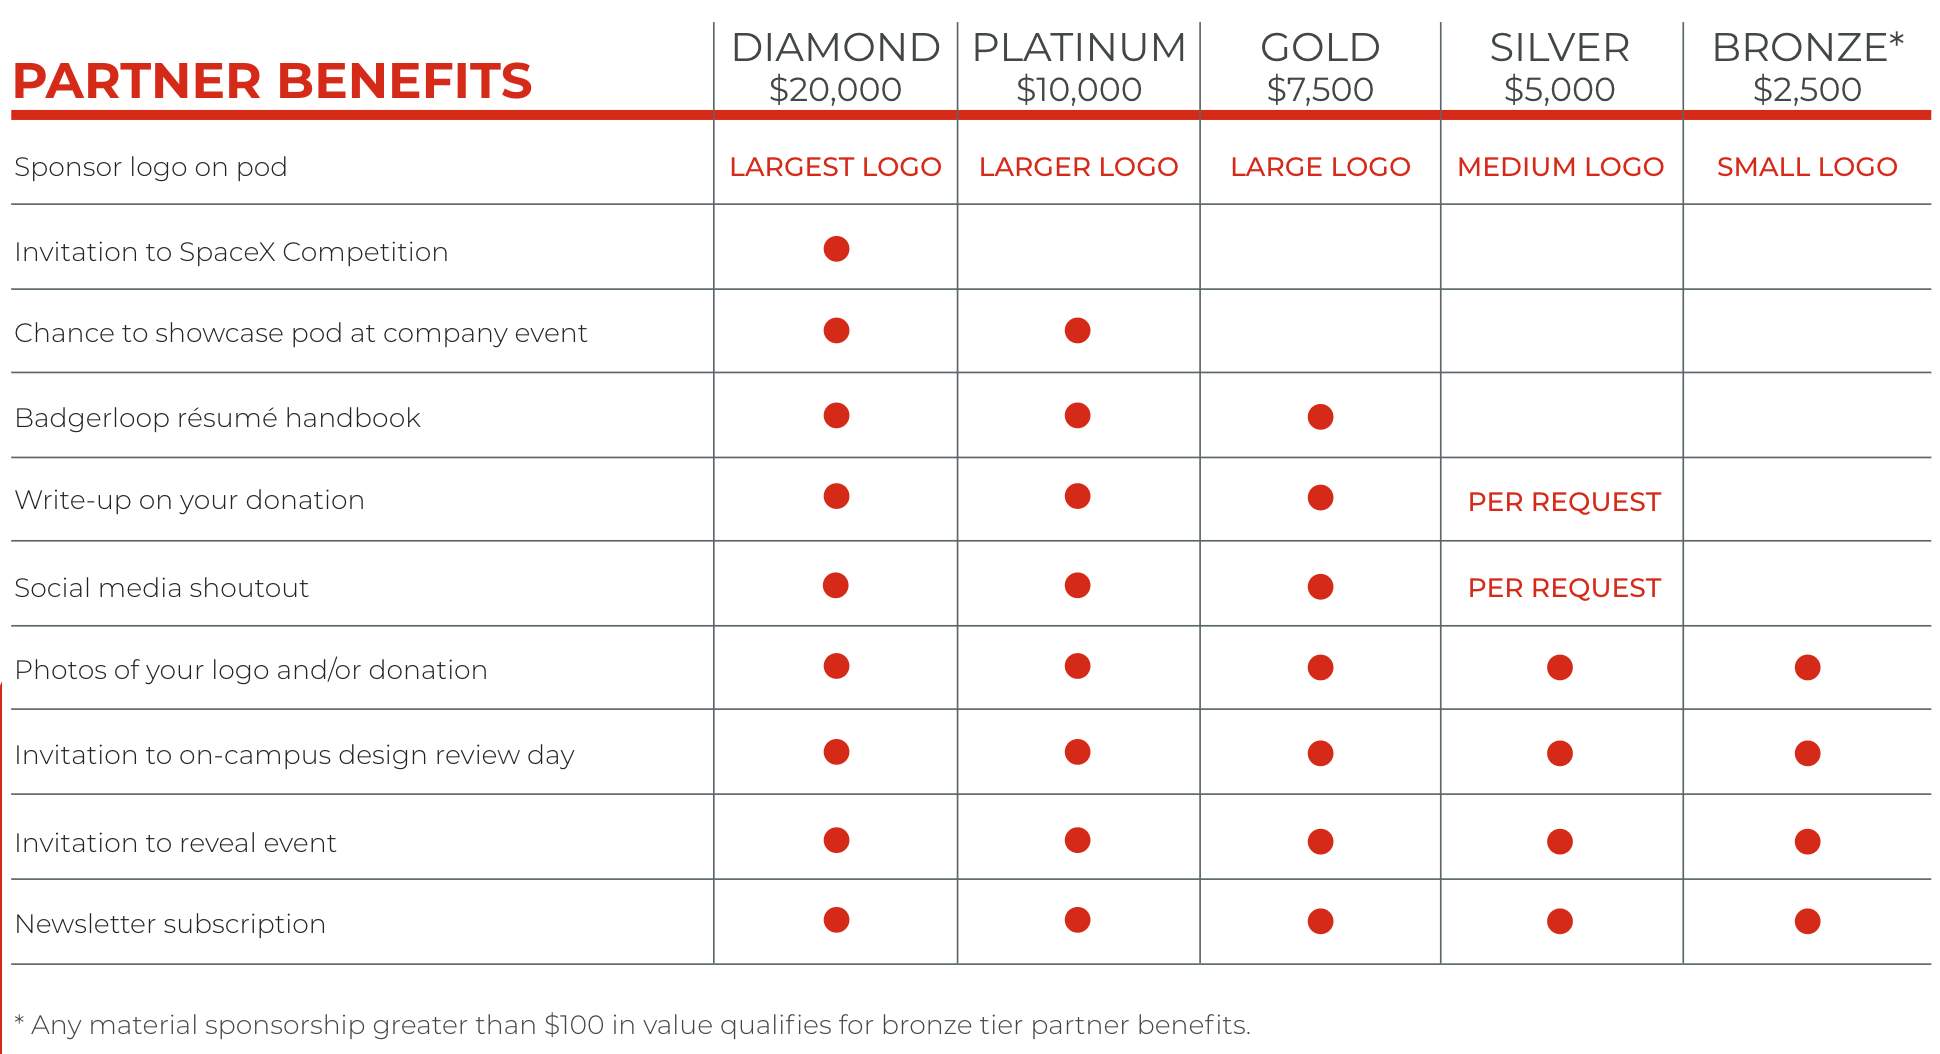
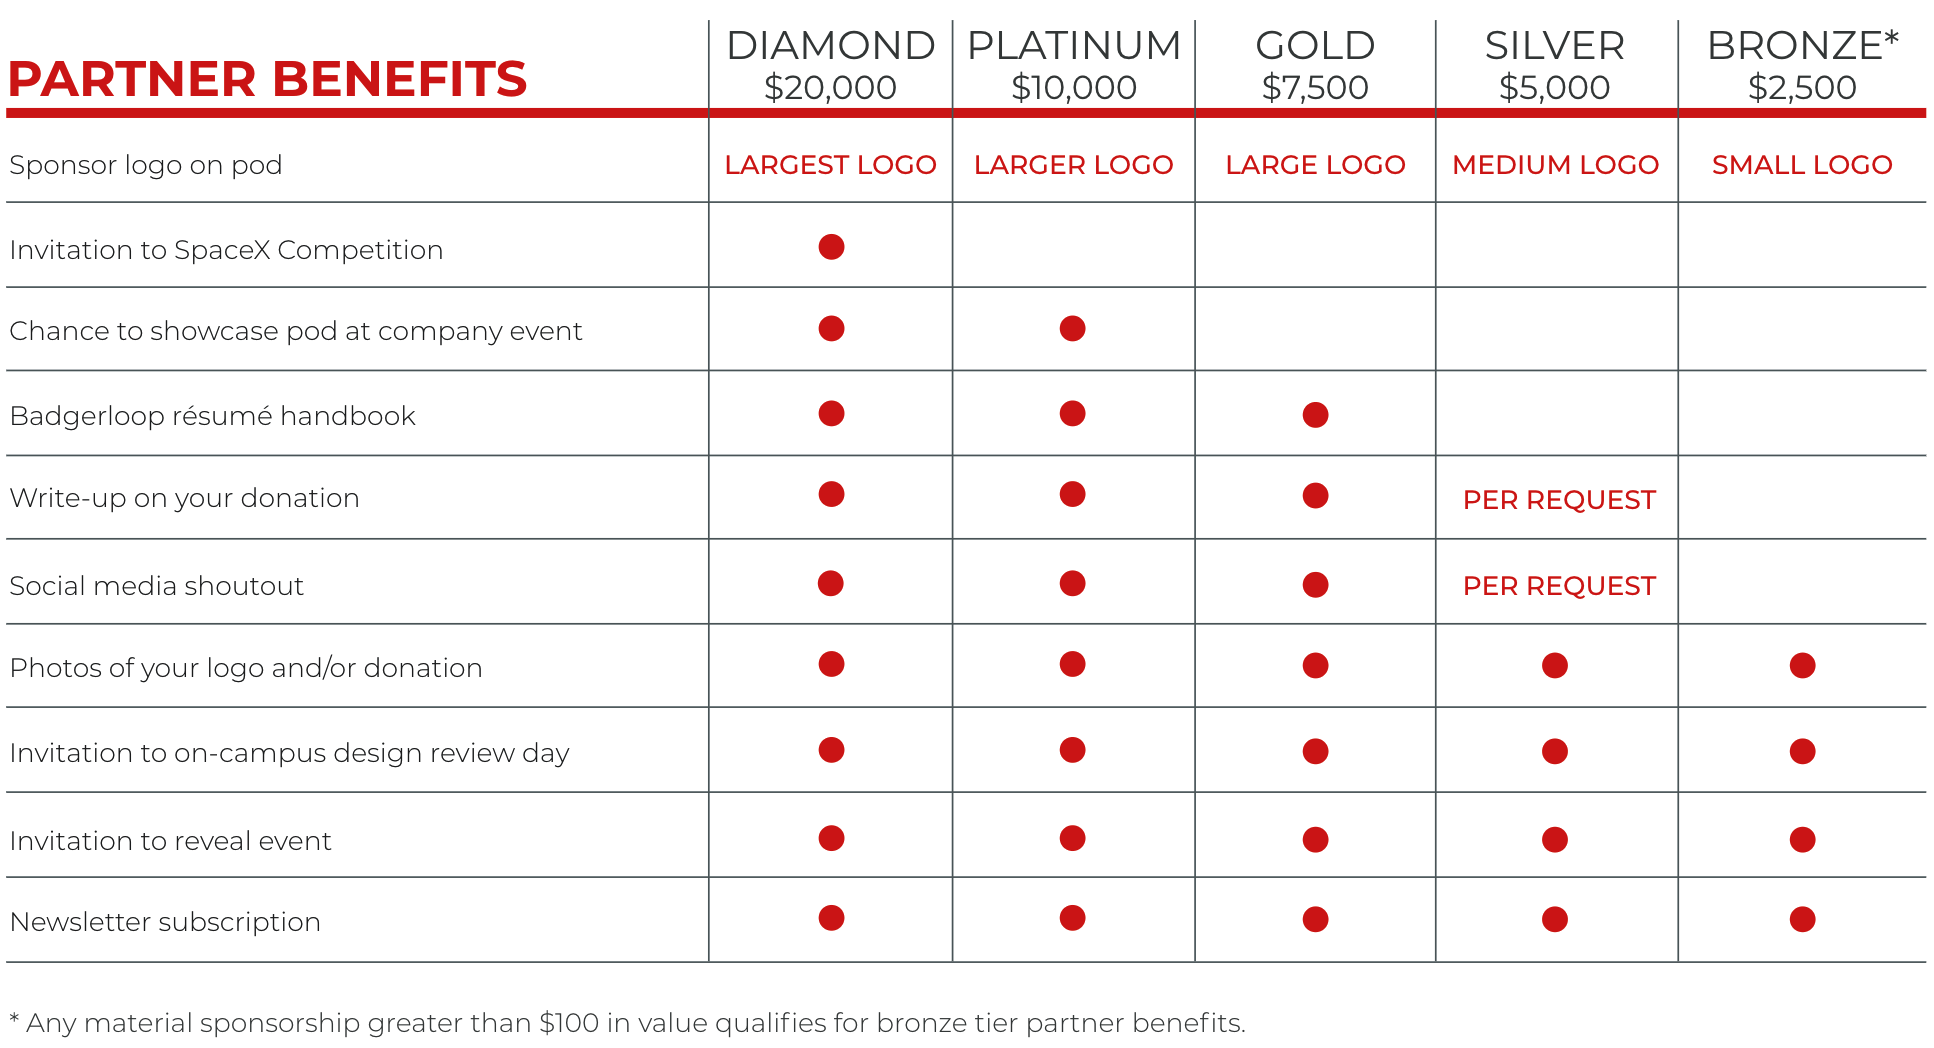
changed sponsorship benefits area

diff --git a/public/sponsors.html b/public/sponsors.html
@@ -135,13 +135,24 @@
 										</div>
 									</div>
 								</div>
-	
-								<h1>Sponsorship Information:</h1>
-								<img src="images/sponsorshipChart.png" width="100%"><br><br>
-								<a href="documents/C4_SponsorshipPacket.pdf" class="button primary icon fa-download">Sponsorship Packet</a>
 							</div>
 						</div>
 					</section>
+					<section id="two" class="main accent1">
+						<div class="inner">
+							<div class="content nobkgrnd">
+									<h1>Sponsorship Information:</h1>
+									<div class="sponsor-benefits">
+										<img src="images/sponsorshipChart.png" width="100%">
+									</div>
+									<a href="documents/C4_SponsorshipPacket.pdf" class="button primary icon fa-download">Sponsorship Packet</a>
+							</div>
+						</div>
+					</section>
+								
+							<!-- </div> -->
+						<!-- </div> -->
+					<!-- </section> -->
 
 				<!-- Footer -->
 				<footer id="footer">

diff --git a/public/assets/css/bloop.css b/public/assets/css/bloop.css
@@ -243,3 +243,12 @@
     width: 225px;
     max-width: 75%;
 }
+.nobkgrnd {
+    background-color: unset!important;
+}
+.sponsor-benefits {
+    border-radius: 10px;
+    padding: 1em;
+    background-color: white;
+    margin-bottom: 1em;
+}
